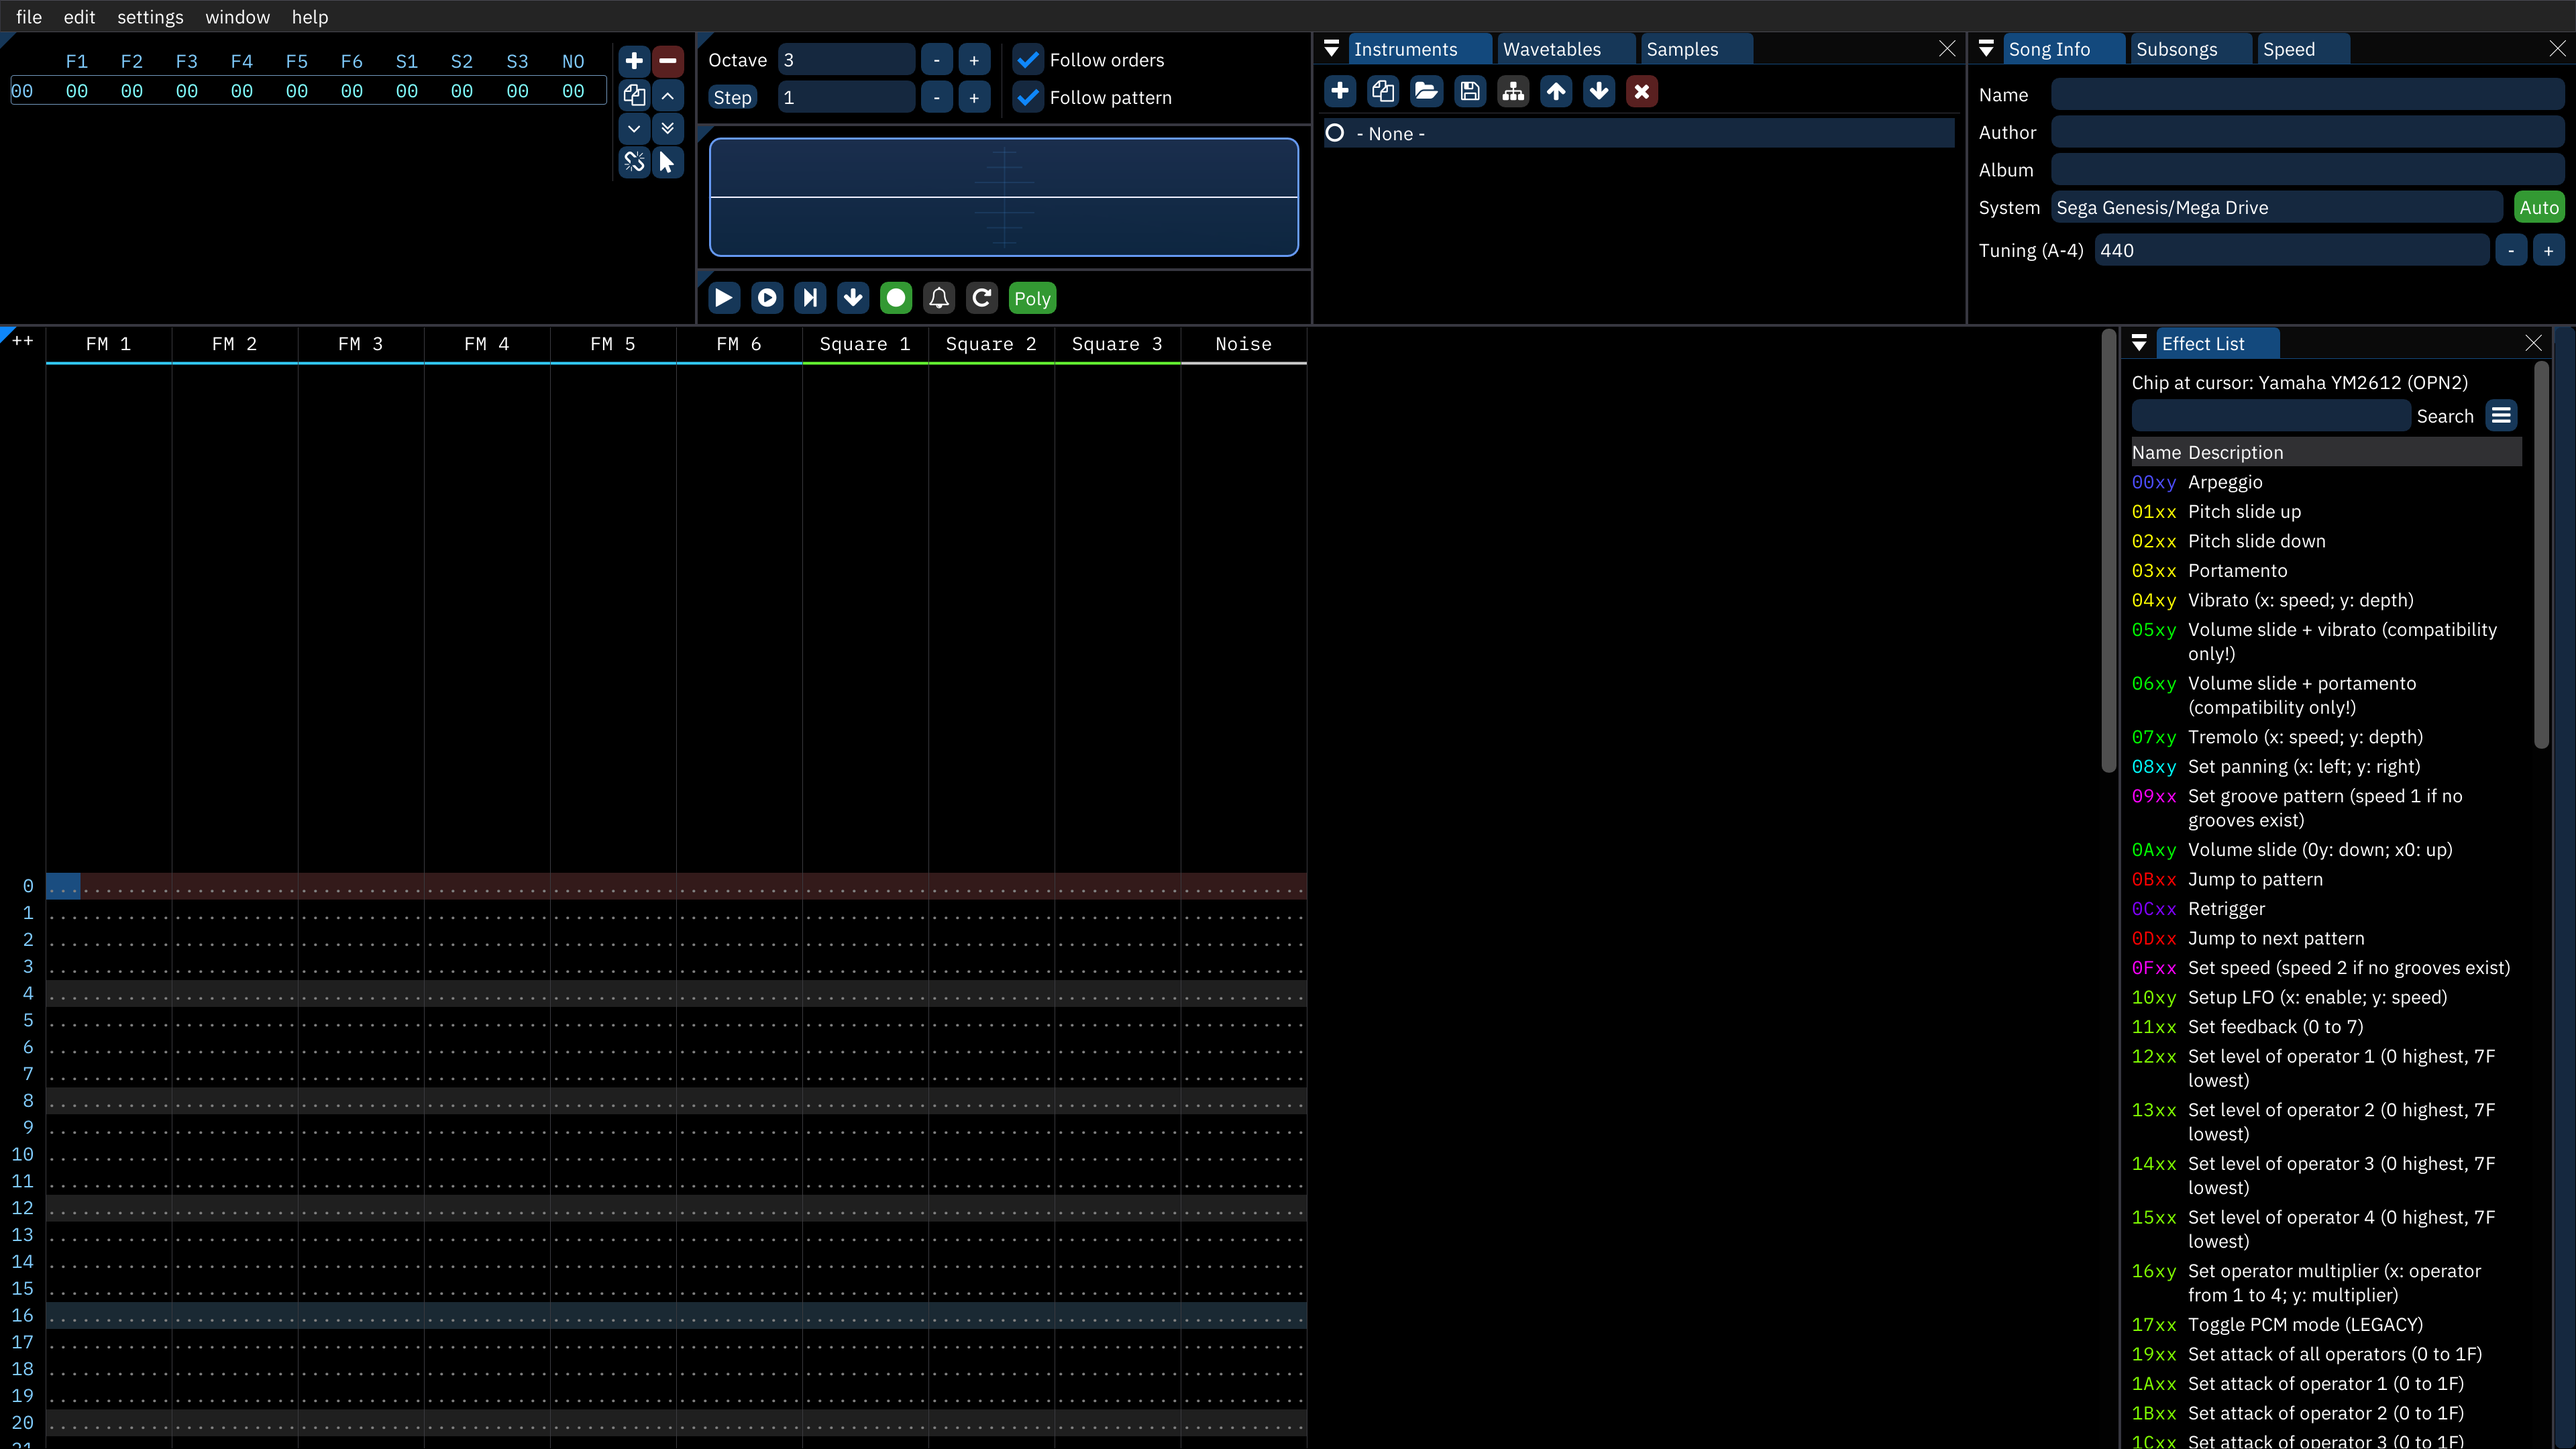
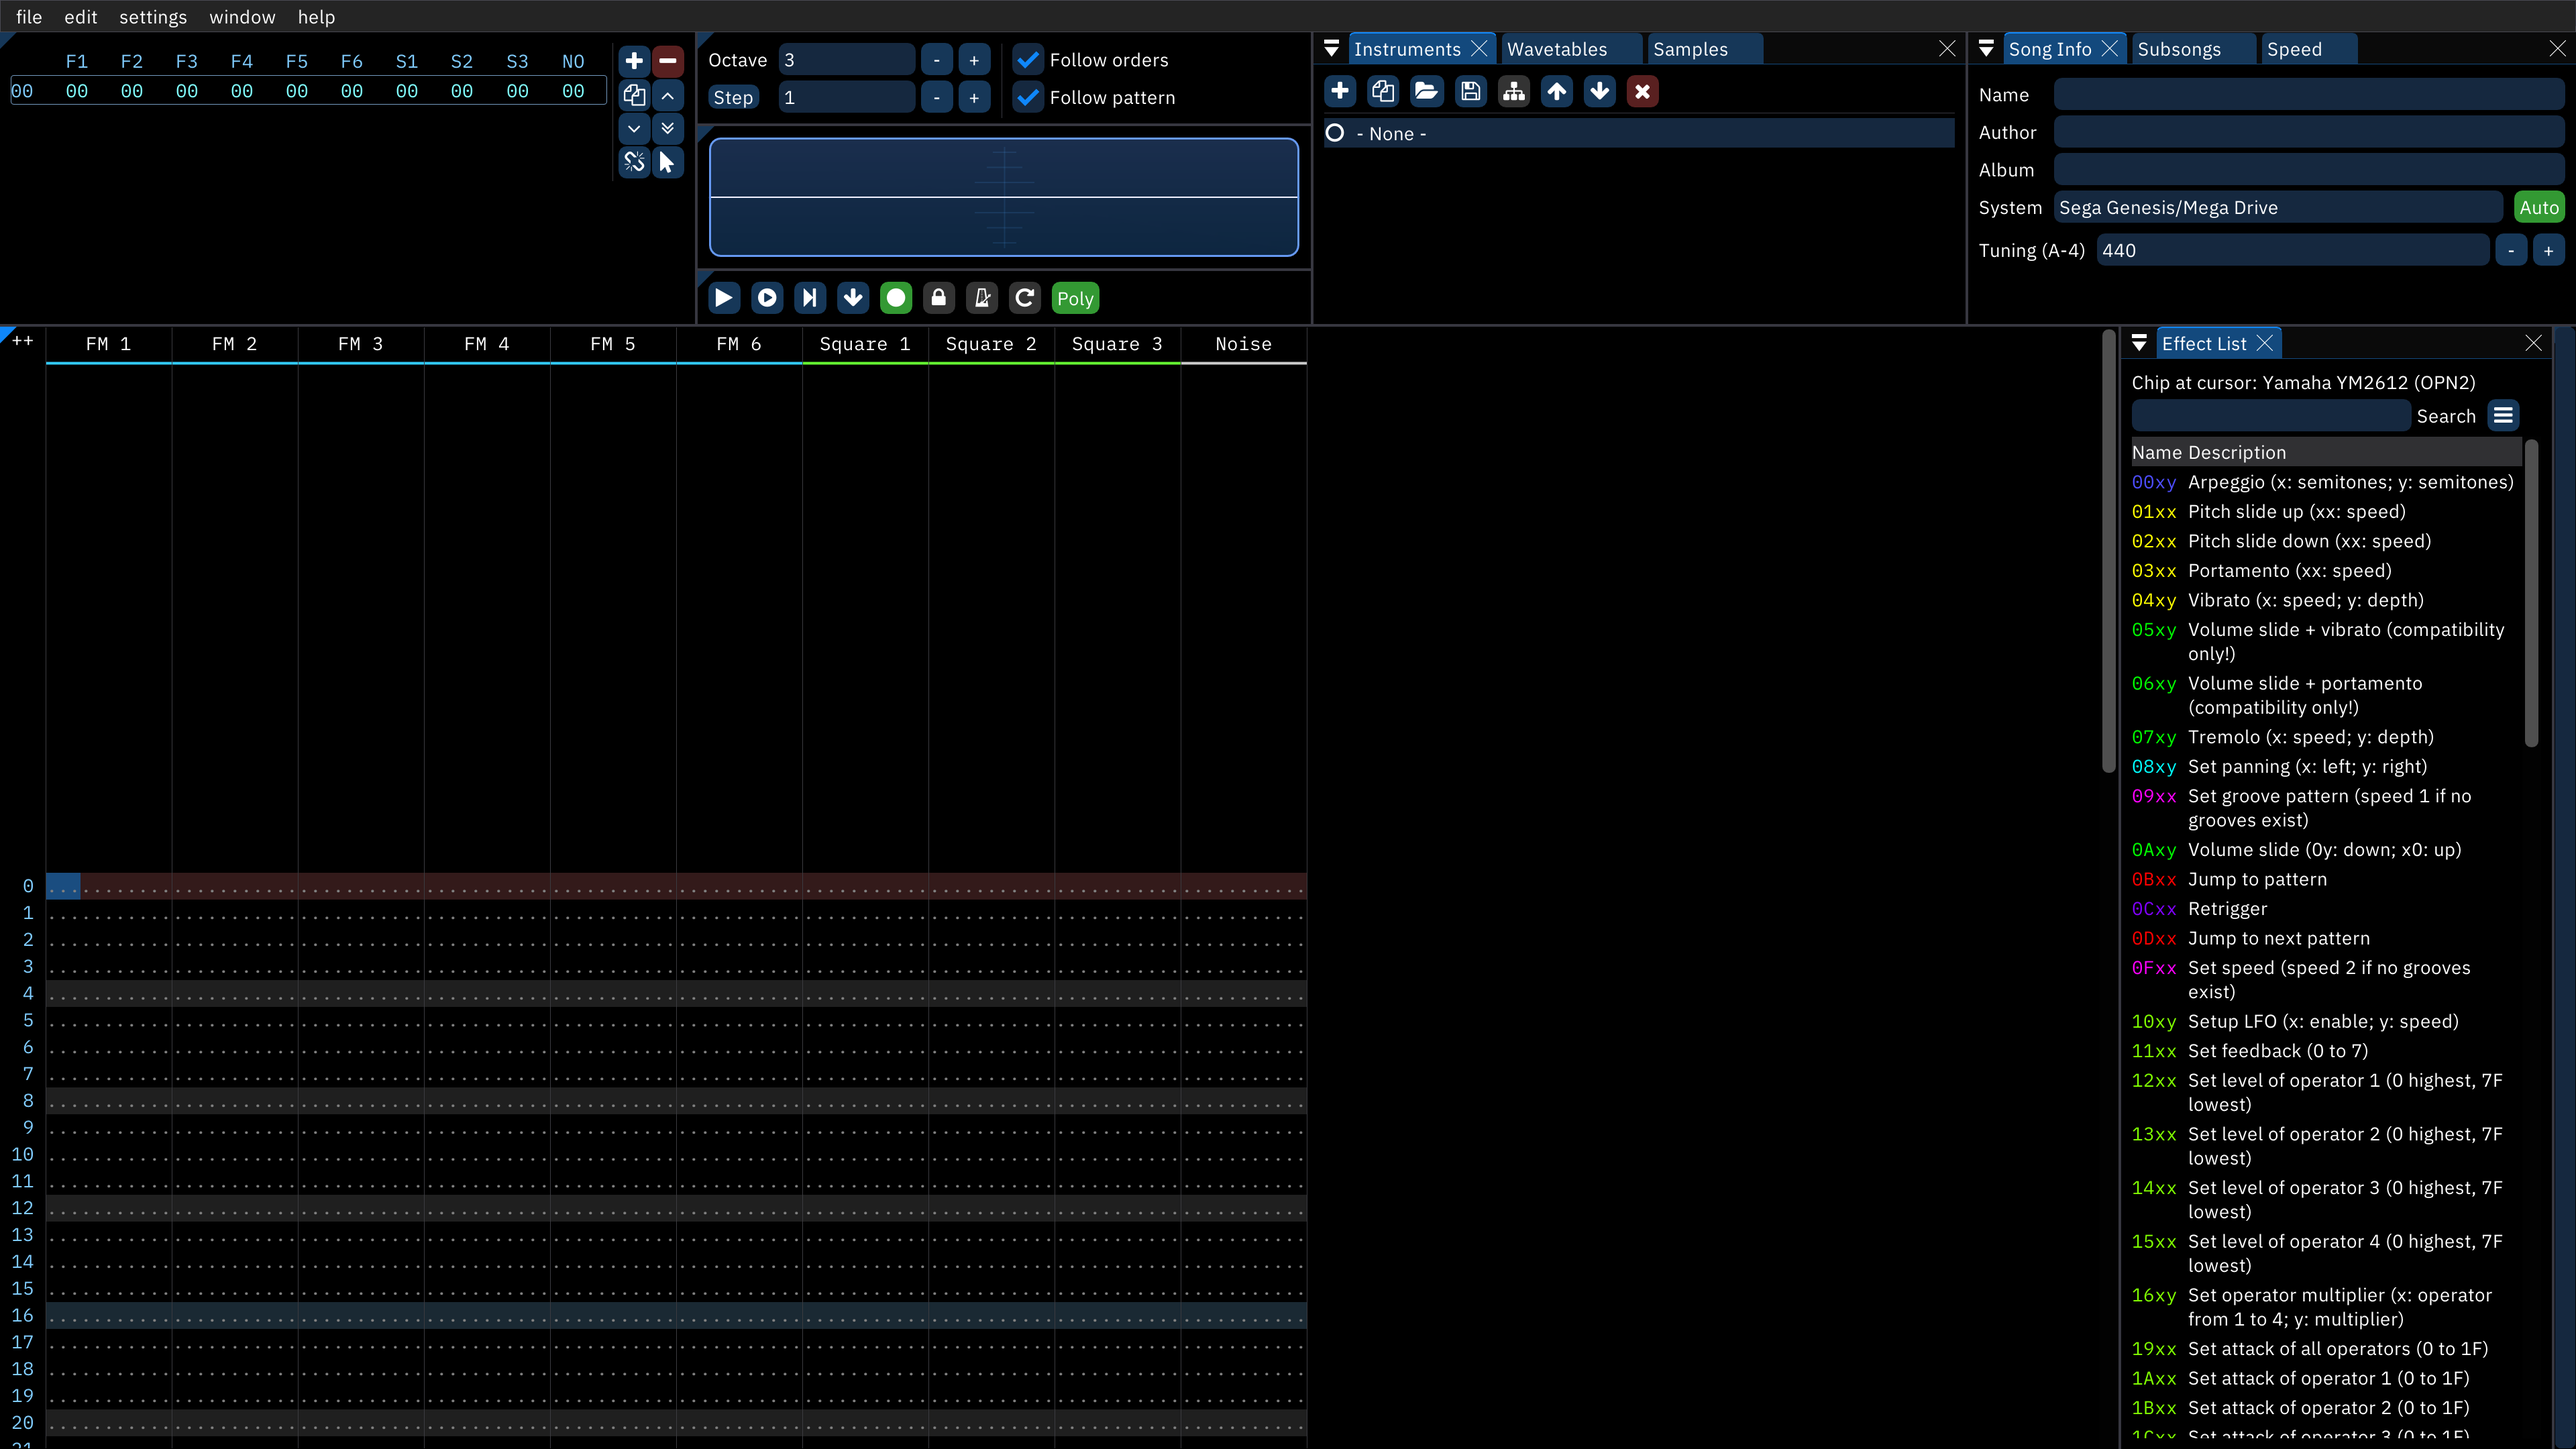
Quick-start guide fixes.
Adjusting for new pattern-lock button and newly defunct Divider. Plus, updating graphics because new ImGui tab look.

diff --git a/doc/1-intro/quickstart.md b/doc/1-intro/quickstart.md
@@ -139,7 +139,7 @@ if we click on the "Speed" tab at the top-right of the interface, we'll see the 
 
 ![speed tab](qs-speed.png)
 
-beneath Base Tempo is "Speed", set to 6. right now, each row takes 6 ticks to complete before moving to the next row. let's say we want things to be a little faster. play the current set of notes to hear their tempo first. then, change speed to 5; the tempo after "Divider" will now show "180.00 BPM". play our notes back, and they're definitely faster... perhaps faster than desired. it's possible to get tempos in between by alternating speeds; if you're interested, check out the documentation on [speeds and grooves](../8-advanced/grooves.md) later on.
+beneath Base Tempo is "Speed", set to 6. right now, each row takes 6 ticks to complete before moving to the next row. let's say we want things to be a little faster. play the current set of notes to hear their tempo first. then, change speed to 5; the tempo shown below "Virtual Tempo" will now read "180.00 BPM". play our notes back, and they're definitely faster... perhaps faster than desired. it's possible to get tempos in between by alternating speeds; if you're interested, check out the documentation on [speeds and grooves](../8-advanced/grooves.md) later on.
 
 ## what about those other channels?
 
